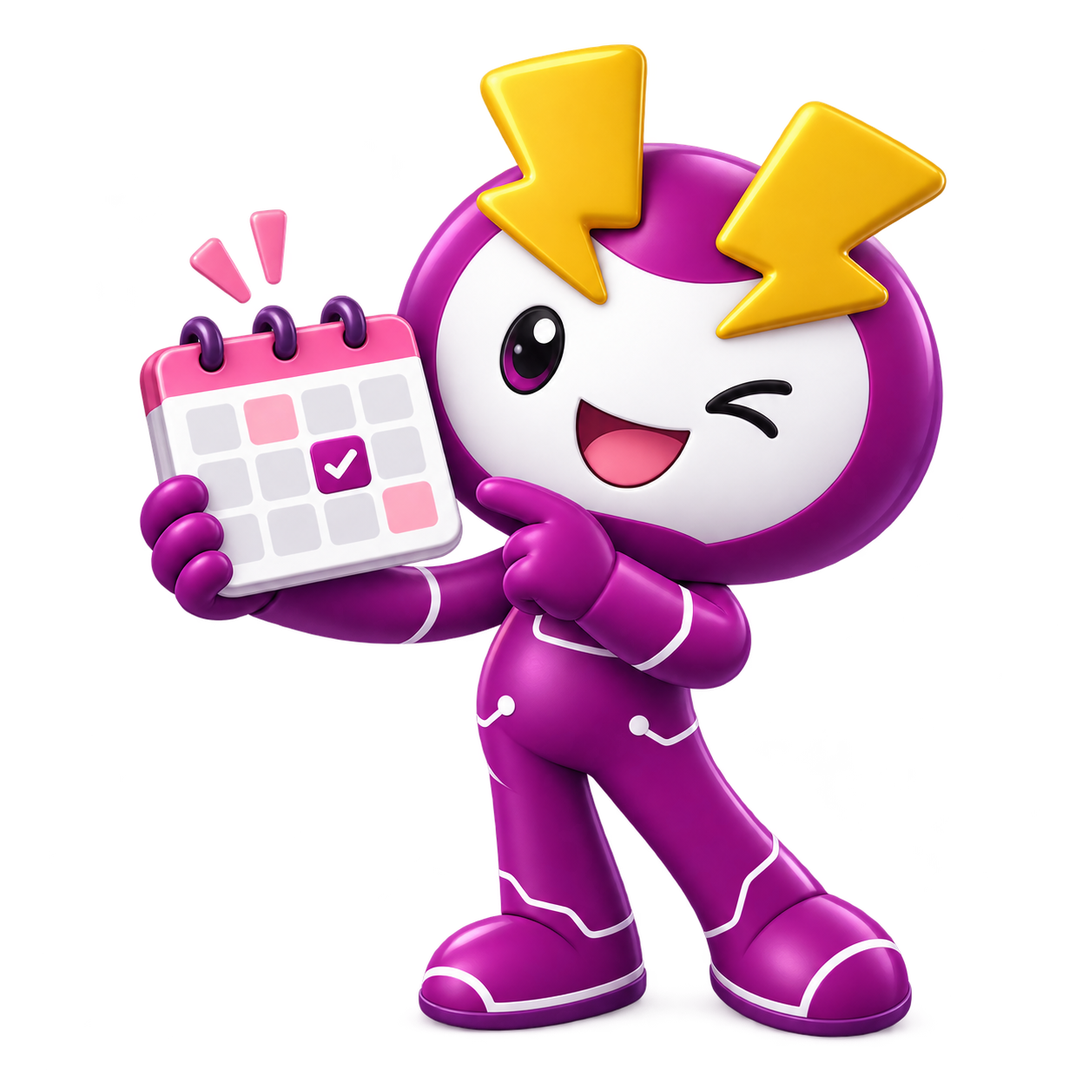
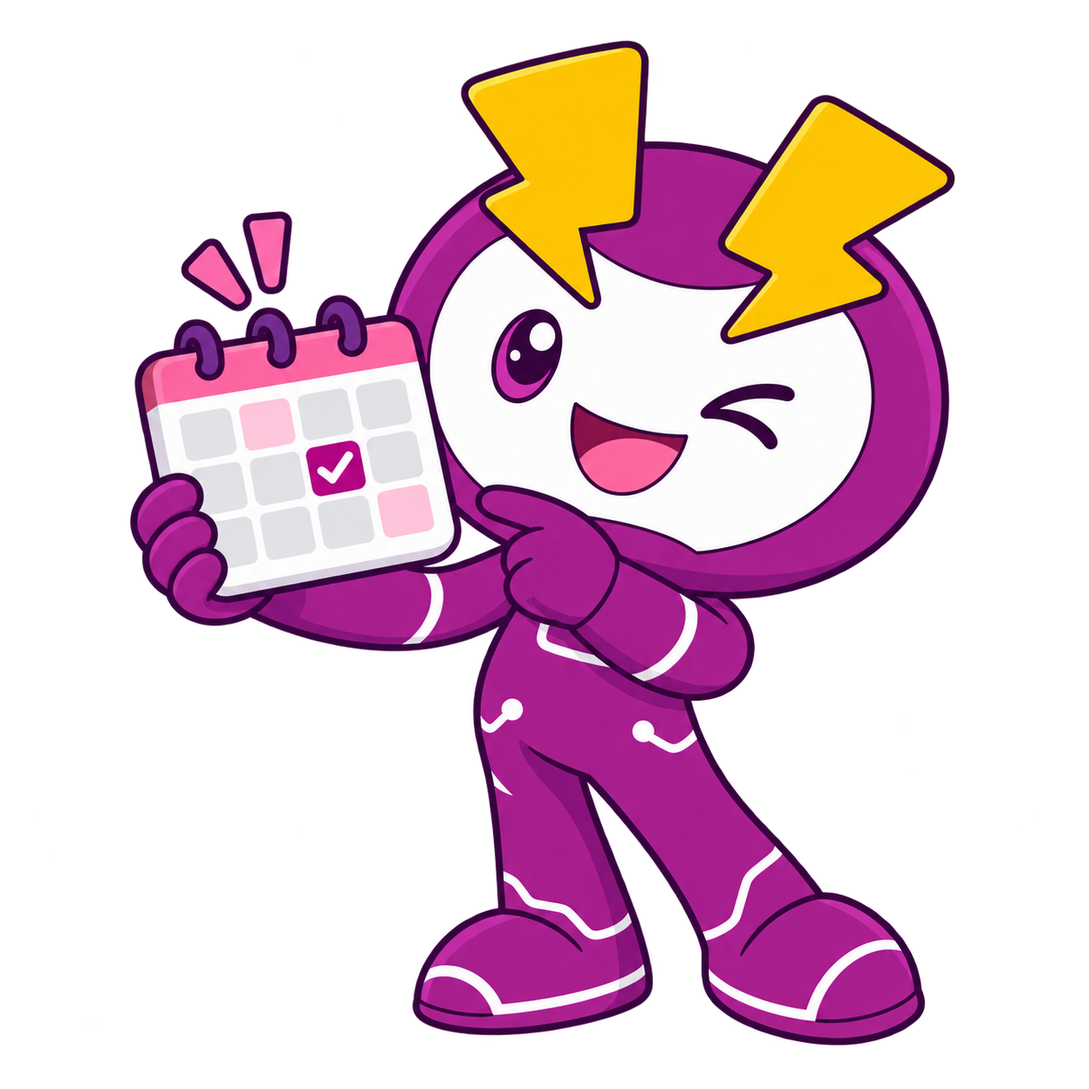
feat: polish PEA calendar UI and acknowledgements

Changed region(s): [[0.0933, 0.0311, 0.9019, 0.9641]]

diff --git a/src/pages/CalendarPage.tsx b/src/pages/CalendarPage.tsx
@@ -6,10 +6,9 @@ import interactionPlugin from '@fullcalendar/interaction'
 import thLocale from '@fullcalendar/core/locales/th'
 import enGbLocale from '@fullcalendar/core/locales/en-gb'
 import { useMutation, useQuery, useQueryClient } from '@tanstack/react-query'
-import { CalendarDays, CalendarPlus, CheckCircle2, Clock3, FileText, Link2, ListTodo, Search, Sparkles } from 'lucide-react'
+import { CalendarCheck2, CalendarDays, CalendarPlus, CheckCircle2, Clock3, FileText, Link2, ListTodo, Search, Sparkles, Zap } from 'lucide-react'
 import Swal from 'sweetalert2'
-import calendarMascot from '../../ภาพประกอบUI/Calendar Mascot 3D.png'
-import peaOfficeTeam from '../../ภาพประกอบUI/PEA Office Team 3D v2.png'
+import bannerHero from '../../ภาพประกอบUI/PEA Calendar Banner 2D.png'
 import { useAuth } from '../auth/AuthProvider'
 import { useConfirm } from '../components/ConfirmDialogProvider'
 import { EventDialog, type EventDetails, type EventDraft } from '../components/EventDialog'
@@ -59,6 +58,7 @@ function calendarDateLabel(date: Date, language: 'th' | 'en') {
 
 async function confirmDeletion(title: string, text: string, confirmButtonText: string) {
   const result = await Swal.fire({
+    customClass: { popup: 'pea-swal-danger' },
     icon: 'error',
     title,
     text,
@@ -530,24 +530,35 @@ export function CalendarPage() {
 
   return (
     <main className="mx-auto max-w-[1600px] p-4 sm:p-6 xl:flex xl:h-[calc(100vh-4rem)] xl:flex-col xl:overflow-hidden xl:p-3">
-      <section className="relative mb-6 min-h-48 overflow-hidden rounded-[28px] border border-purple-100 bg-gradient-to-r from-[#f1ddf8] via-[#faebf6] to-[#eee5ff] px-6 py-7 sm:min-h-56 sm:px-8 xl:mb-3 xl:h-36 xl:min-h-0 xl:shrink-0 xl:overflow-visible xl:py-4" aria-label="ยินดีต้อนรับ">
+      <section className="relative mb-6 min-h-64 overflow-hidden rounded-[28px] border border-purple-100 bg-gradient-to-r from-[#f0dcff] via-[#fff0f7] to-[#eee6ff] px-6 py-7 shadow-sm sm:min-h-72 sm:px-8 xl:mb-2 xl:h-40 xl:min-h-0 xl:shrink-0 xl:px-8 xl:py-3" aria-label="ยินดีต้อนรับ">
         <div className="pointer-events-none absolute inset-0 overflow-hidden rounded-[28px]" aria-hidden="true">
-          <span className="absolute -bottom-20 right-4 h-52 w-52 rounded-full bg-white/35" />
-          <span className="absolute -bottom-8 right-[17%] h-28 w-40 rotate-6 rounded-[32px] border border-white/40 bg-purple-200/25" />
-          <Sparkles className="absolute right-[30%] top-5 hidden text-amber-400 drop-shadow-sm sm:block xl:right-[36%] xl:top-3" size={24} />
-          <span className="absolute right-[39%] top-6 hidden h-2.5 w-2.5 rounded-full bg-pink-300/80 xl:right-[42%] xl:block" />
+          <span className="absolute -left-16 -top-24 h-64 w-64 rounded-full bg-white/35 blur-2xl" />
+          <span className="absolute -bottom-24 right-8 h-64 w-64 rounded-full bg-purple-300/25 blur-2xl" />
+          <div className="absolute bottom-[-3rem] left-[43%] hidden h-40 w-32 rotate-[-5deg] rounded-[22px] border-4 border-white/25 bg-white/10 p-3 sm:block xl:h-28 xl:w-24 xl:p-2">
+            <span className="absolute -top-3 left-5 h-6 w-2 rounded-full bg-purple-300/30" />
+            <span className="absolute -top-3 right-5 h-6 w-2 rounded-full bg-purple-300/30" />
+            <span className="mt-3 grid grid-cols-3 gap-2 opacity-35 xl:gap-1.5">{Array.from({ length: 6 }, (_, index) => <span key={index} className={`aspect-square rounded-md ${index === 4 ? 'bg-purple-400/45' : 'bg-white/60'}`} />)}</span>
+          </div>
+          <Sparkles className="absolute left-[46%] top-8 hidden text-amber-400/80 drop-shadow-sm lg:block xl:top-3" size={24} />
+          <span className="absolute left-[51%] top-14 hidden h-2.5 w-2.5 rounded-full bg-pink-300/80 lg:block xl:top-8" />
+          <Clock3 className="absolute bottom-5 left-[57%] hidden text-brand-500/25 xl:block" size={34} strokeWidth={1.8} />
+          <CheckCircle2 className="absolute left-[62%] top-4 hidden text-amber-500/30 xl:block" size={30} strokeWidth={2} />
+          <span className="absolute left-[54%] top-3 hidden h-1.5 w-1.5 rounded-full bg-brand-400/30 xl:block" />
+          <span className="absolute bottom-3 left-[65%] hidden h-12 w-24 rounded-[50%] border-t-2 border-purple-400/20 xl:block" />
         </div>
-        <div className="relative z-10 max-w-[65%] sm:max-w-[62%] xl:max-w-[40%]"><p className="mb-2 flex items-center gap-2 text-sm font-semibold text-brand-700"><Sparkles size={16} />จัดการนัดหมาย ประชุม และงานสำคัญ</p><h1 className="text-2xl font-extrabold leading-tight text-brand-900 sm:text-4xl xl:text-3xl">ให้ทุกวันเป็นวันของความสำเร็จ</h1><p className="mt-3 hidden max-w-lg text-sm text-slate-600 sm:block xl:text-xs">ปฏิทินเดียวสำหรับวางแผน ติดตามงาน และทำงานร่วมกันอย่างราบรื่น</p></div>
-        <img
-          src={peaOfficeTeam}
-          alt="สำนักงาน PEA พร้อมรถกระเช้าและพนักงานกำลังตรวจงานแบบสามมิติ"
-          className="pointer-events-none absolute bottom-0 right-40 z-10 hidden h-[8.25rem] w-auto max-w-none object-contain drop-shadow-[0_14px_12px_rgba(76,15,93,0.28)] xl:block"
-        />
-        <img
-          src={calendarMascot}
-          alt="มาสคอต PEA ถือปฏิทินและชี้วันที่ทำเครื่องหมาย"
-          className="pointer-events-none absolute right-0 top-3 z-20 w-32 max-w-none -rotate-2 object-contain drop-shadow-[0_18px_14px_rgba(76,15,93,0.28)] sm:right-1 sm:top-2 sm:w-36 xl:right-3 xl:top-0 xl:w-40"
-        />
+        <div className="relative z-20 max-w-full sm:max-w-[54%] xl:max-w-[56%]">
+          <p className="mb-2 flex items-center gap-2 text-sm font-bold text-brand-800 xl:mb-0.5 xl:text-[11px]"><Sparkles size={16} />จัดการนัดหมาย ประชุม งานสำคัญ <CalendarCheck2 className="text-violet-500" size={18} /></p>
+          <h1 className="text-3xl font-extrabold leading-tight text-brand-900 sm:text-4xl xl:text-[1.65rem]">ให้ทุกวันเป็นวันของความสำเร็จ</h1>
+          <p className="mt-3 max-w-2xl text-sm leading-6 text-slate-600 xl:mt-1 xl:text-xs xl:leading-5">ปฏิทินอัจฉริยะสำหรับชาว กฟภ. ช่วยให้การทำงานเป็นระบบมากขึ้น<br className="hidden xl:block" /> นัดหมายง่าย ไม่พลาดทุกภารกิจ สู่อนาคตพลังงานที่ยั่งยืน</p>
+          <p className="mt-4 inline-flex rounded-full bg-white/55 px-5 py-2 text-sm font-bold text-brand-700 shadow-sm backdrop-blur-sm xl:mt-2 xl:px-4 xl:py-1 xl:text-xs">“ ร่วมขับเคลื่อนพลังงาน เพื่อชีวิตที่ดีกว่าของทุกคน ”</p>
+        </div>
+        <div className="absolute right-[25.5rem] top-2 z-30 hidden -rotate-2 rounded-[22px] border border-purple-200/70 bg-white/80 px-4 py-2 pr-8 text-center text-xs font-bold leading-4 text-brand-800 shadow-sm backdrop-blur-sm xl:block">
+          <span className="absolute -right-2 top-1/2 h-4 w-4 -translate-y-1/2 rotate-45 border-r border-t border-purple-200/70 bg-white/80" />
+          <span className="relative z-10">นัดง่าย<br />งานราบรื่น<br />ไปด้วยกัน</span>
+          <Zap className="absolute right-2 top-1/2 -translate-y-1/2 text-amber-500" size={18} />
+        </div>
+        <div className="absolute right-4 top-3 z-30 hidden rounded-[20px] bg-white/65 px-4 py-2 text-center text-[10px] font-bold leading-4 text-brand-800 shadow-sm backdrop-blur-sm xl:block">พลังงาน<br />เชื่อมโยงอนาคต <span className="text-pink-500">♥</span></div>
+        <img src={bannerHero} alt="มาสคอต PEA โบกมือข้างปฏิทินและต้นไม้" className="pointer-events-none absolute bottom-0 right-2 z-10 hidden w-[46%] max-w-[40rem] object-contain drop-shadow-[0_12px_8px_rgba(76,15,93,0.28)] sm:block xl:right-8 xl:h-[9.75rem] xl:w-auto xl:max-w-none" />
       </section>
       <div className="grid gap-5 xl:min-h-0 xl:flex-1 xl:grid-cols-[minmax(0,1fr)_260px] xl:gap-3">
       <div className="min-w-0 xl:flex xl:min-h-0 xl:flex-col">

diff --git a/supabase/functions/email-acknowledgement/index.ts b/supabase/functions/email-acknowledgement/index.ts
@@ -8,50 +8,32 @@ async function hashToken(token: string) {
   return Array.from(bytes, (value) => value.toString(16).padStart(2, '0')).join('')
 }
 
-function result(message: string, status: number) {
-  return new Response(message, { status, headers: { 'content-type': 'text/plain; charset=utf-8', 'cache-control': 'no-store' } })
+function result(title: string, message: string, status: number, success = false) {
+  const accent = success ? '#15803d' : '#b91c1c'
+  const icon = success ? '✓' : '!'
+  const body = `<!doctype html><html lang="th"><head><meta charset="utf-8"><meta name="viewport" content="width=device-width,initial-scale=1"><title>${title}</title></head><body style="margin:0;background:#f6f0f8;font-family:Arial,'Noto Sans Thai',sans-serif;color:#34253d"><main style="min-height:100vh;display:flex;align-items:center;justify-content:center;padding:24px;box-sizing:border-box"><section style="width:100%;max-width:480px;padding:32px;box-sizing:border-box;text-align:center;background:#fff;border:1px solid #ead9ef;border-top:6px solid ${accent};border-radius:24px;box-shadow:0 18px 50px rgba(76,15,93,.16)"><div style="width:64px;height:64px;margin:0 auto 18px;display:flex;align-items:center;justify-content:center;border-radius:50%;background:${accent};color:#fff;font-size:36px;font-weight:700">${icon}</div><h1 style="margin:0;color:#4e0d53;font-size:26px">${title}</h1><p style="margin:14px 0 0;color:#625469;font-size:16px;line-height:1.7">${message}</p></section></main></body></html>`
+  return new Response(body, { status, headers: { 'content-type': 'text/html; charset=utf-8', 'cache-control': 'no-store' } })
 }
 
-function acknowledgementSuccessRedirect() {
-  if (!publicAppUrl) return null
+function acknowledgementSuccess() {
+  if (!publicAppUrl) return result('รับทราบเรียบร้อยแล้ว', 'ระบบบันทึกการรับทราบของคุณแล้ว สามารถปิดหน้านี้ได้', 200, true)
   const url = new URL(publicAppUrl)
   url.hash = '/acknowledged'
-  return url.toString()
+  return Response.redirect(url, 303)
 }
 
 Deno.serve(async (request) => {
-  if (request.method !== 'GET') return result('ไม่รองรับคำขอนี้', 405)
+  if (request.method !== 'GET') return result('ไม่รองรับคำขอนี้', 'กรุณาเปิดลิงก์รับทราบจากอีเมลอีกครั้ง', 405)
   try {
     const token = new URL(request.url).searchParams.get('token')?.trim()
-    if (!token) return result('ลิงก์รับทราบไม่ถูกต้อง', 400)
-    const { data: action, error: actionError } = await admin.from('email_acknowledgement_tokens').select('*')
-      .eq('token_hash', await hashToken(token)).gt('expires_at', new Date().toISOString()).maybeSingle()
-    if (actionError) throw actionError
-    if (!action) return result('ลิงก์รับทราบหมดอายุแล้ว', 404)
-
-    if (action.recipient_type === 'guest') {
-      const { error } = await admin.from('event_guests').update({ acknowledged_at: new Date().toISOString() })
-        .eq('event_id', action.event_id!).eq('email', action.recipient_reference).is('revoked_at', null).is('acknowledged_at', null)
-      if (error) throw error
-    } else if (action.recipient_type === 'external_assignee') {
-      const { error } = await admin.from('task_external_recipients').update({ acknowledged_at: new Date().toISOString() })
-        .eq('task_id', action.task_id!).eq('email', action.recipient_reference).is('acknowledged_at', null)
-      if (error) throw error
-    } else {
-      const { data: profile, error: profileError } = await admin.from('profiles').select('id').eq('email', action.recipient_reference).maybeSingle()
-      if (profileError) throw profileError
-      if (!profile) return result('ไม่พบผู้รับมอบหมาย', 404)
-      const { error } = await admin.from('task_internal_recipients').update({ acknowledged_at: new Date().toISOString() })
-        .eq('task_id', action.task_id!).eq('user_id', profile.id).is('acknowledged_at', null)
-      if (error) throw error
-    }
-    await admin.from('email_acknowledgement_tokens').update({ consumed_at: new Date().toISOString() }).eq('id', action.id)
-    const redirect = acknowledgementSuccessRedirect()
-    return redirect
-      ? Response.redirect(redirect, 302)
-      : new Response(null, { status: 204, headers: { 'cache-control': 'no-store' } })
+    if (!token) return result('ลิงก์รับทราบไม่ถูกต้อง', 'ไม่พบ token สำหรับยืนยันการรับทราบ', 400)
+    const { data: outcome, error } = await admin.rpc('consume_email_acknowledgement', { target_token_hash: await hashToken(token) })
+    if (error) throw error
+    if (outcome === 'invalid') return result('ลิงก์รับทราบหมดอายุ', 'กรุณาติดต่อผู้ส่งเพื่อขออีเมลแจ้งเตือนฉบับใหม่', 404)
+    if (outcome === 'recipient_not_found') return result('ไม่พบผู้รับรายการนี้', 'รายการอาจถูกแก้ไขหรือยกเลิกไปแล้ว', 404)
+    return acknowledgementSuccess()
   } catch (error) {
     console.error(error)
-    return result('ไม่สามารถบันทึกการรับทราบได้ในขณะนี้', 500)
+    return result('บันทึกการรับทราบไม่สำเร็จ', 'ระบบขัดข้องชั่วคราว กรุณาลองเปิดลิงก์จากอีเมลอีกครั้ง', 500)
   }
 })

diff --git a/src/components/ConfirmDialogProvider.tsx b/src/components/ConfirmDialogProvider.tsx
@@ -1,5 +1,6 @@
 import { createContext, useCallback, useContext, useEffect, useRef, useState, type ReactNode } from 'react'
-import { AlertTriangle, CircleHelp, X } from 'lucide-react'
+import { AlertTriangle, CircleHelp, Sparkles, X } from 'lucide-react'
+import mascot from '../../ภาพประกอบUI/Thumb Up Mascot 3D.png'
 
 type ConfirmOptions = {
   title: string
@@ -37,17 +38,29 @@ export function ConfirmDialogProvider({ children }: { children: ReactNode }) {
 
   return <ConfirmContext.Provider value={confirm}>
     {children}
-    {options && <div className="fixed inset-0 z-[100] flex items-center justify-center bg-slate-950/40 p-4" role="dialog" aria-modal="true" aria-labelledby="confirm-dialog-title">
-      <div className="relative w-full max-w-md rounded-2xl bg-white p-6 text-center shadow-2xl">
-        <button type="button" className="absolute right-4 top-4 rounded-lg p-1.5 text-slate-400 hover:bg-slate-100 hover:text-slate-700" onClick={() => close(false)} aria-label="ปิด"><X size={20} /></button>
-        <div className={`mx-auto mb-4 flex h-14 w-14 items-center justify-center rounded-full ${options.tone === 'danger' ? 'bg-red-50 text-red-600' : 'bg-brand-50 text-brand-600'}`}>
-          {options.tone === 'danger' ? <AlertTriangle size={30} /> : <CircleHelp size={30} />}
-        </div>
-        <h2 id="confirm-dialog-title" className="text-xl font-bold text-slate-900">{options.title}</h2>
-        <p className="mt-2 text-sm leading-6 text-slate-600">{options.message}</p>
-        <div className="mt-6 grid gap-3 sm:grid-cols-2">
-          <button type="button" className="btn-secondary justify-center" onClick={() => close(false)} autoFocus>ยกเลิก</button>
-          <button type="button" className={`justify-center ${options.tone === 'danger' ? 'btn-secondary border-red-200 bg-red-600 text-white hover:bg-red-700' : 'btn-primary'}`} onClick={() => close(true)}>{options.confirmLabel ?? 'ยืนยัน'}</button>
+    {options && <div className="fixed inset-0 z-[100] flex items-center justify-center bg-[#291333]/60 p-4 backdrop-blur-md" role="dialog" aria-modal="true" aria-labelledby="confirm-dialog-title">
+      <div className="relative w-full max-w-md overflow-hidden rounded-[28px] border-2 border-purple-200/80 bg-gradient-to-br from-white via-purple-50/90 to-amber-50/80 text-center shadow-[0_28px_80px_rgba(76,15,93,0.38)]">
+        <div className={`h-2.5 w-full ${options.tone === 'danger' ? 'bg-gradient-to-r from-red-500 via-rose-500 to-amber-400' : 'bg-gradient-to-r from-brand-700 via-fuchsia-500 to-amber-400'}`} />
+        <div className="pointer-events-none absolute -right-10 -top-10 h-36 w-36 rounded-full bg-fuchsia-300/35 blur-2xl" aria-hidden="true" />
+        <div className="pointer-events-none absolute -bottom-16 -left-12 h-40 w-40 rounded-full bg-amber-200/35 blur-2xl" aria-hidden="true" />
+        <div className="relative px-6 pb-6 pt-7 sm:px-7">
+          <button type="button" className="absolute right-4 top-4 rounded-xl bg-white/70 p-2 text-slate-400 shadow-sm transition hover:bg-white hover:text-brand-700" onClick={() => close(false)} aria-label="ปิด"><X size={20} /></button>
+          <div className={`mx-auto mb-5 flex h-20 w-20 items-center justify-center rounded-[24px] border-2 text-white ring-8 ring-white/70 ${options.tone === 'danger' ? 'border-red-300 bg-gradient-to-br from-red-500 to-orange-400 shadow-lg shadow-red-200/70' : 'border-purple-300 bg-gradient-to-br from-brand-700 via-fuchsia-500 to-amber-400 shadow-lg shadow-purple-300/60'}`}>
+            {options.tone === 'danger' ? <AlertTriangle size={31} /> : <CircleHelp size={31} />}
+          </div>
+          <Sparkles className="absolute left-[calc(50%+2.8rem)] top-7 text-amber-500 drop-shadow-sm" size={21} aria-hidden="true" />
+          <h2 id="confirm-dialog-title" className="text-2xl font-extrabold text-brand-900">{options.title}</h2>
+          <div className="mt-4 grid grid-cols-[5.5rem_minmax(0,1fr)] items-end gap-2 text-left">
+            <img src={mascot} alt="มาสคอต PEA" className="h-24 w-24 max-w-none object-contain drop-shadow-[0_10px_8px_rgba(76,15,93,0.28)]" />
+            <div className={`relative mb-2 rounded-[20px] border-2 px-4 py-3 shadow-sm ${options.tone === 'danger' ? 'border-red-200 bg-red-50/90' : 'border-purple-200 bg-white/90'}`}>
+              <span className={`absolute -left-3 bottom-5 h-6 w-6 rotate-45 border-b-[3px] border-l-[3px] drop-shadow-[-2px_2px_2px_rgba(76,15,93,0.08)] ${options.tone === 'danger' ? 'border-red-200 bg-red-50' : 'border-purple-200 bg-white'}`} />
+              <p className="relative z-10 text-sm font-semibold leading-6 text-slate-700">{options.message}</p>
+            </div>
+          </div>
+          <div className="mt-4 grid gap-3 sm:grid-cols-2">
+            <button type="button" className="inline-flex min-h-11 items-center justify-center rounded-xl border-2 border-purple-200 bg-purple-50/80 px-4 py-2.5 font-semibold text-brand-800 shadow-sm transition hover:bg-purple-100" onClick={() => close(false)} autoFocus>ยกเลิก</button>
+            <button type="button" className={`inline-flex min-h-11 items-center justify-center rounded-xl px-4 py-2.5 font-semibold text-white shadow-lg transition ${options.tone === 'danger' ? 'bg-gradient-to-r from-red-600 to-orange-500 shadow-red-200 hover:from-red-700 hover:to-orange-600' : 'bg-gradient-to-r from-brand-700 via-fuchsia-500 to-amber-500 shadow-purple-300/50 hover:from-brand-800 hover:via-fuchsia-600 hover:to-amber-600'}`} onClick={() => close(true)}>{options.confirmLabel ?? 'ยืนยัน'}</button>
+          </div>
         </div>
       </div>
     </div>}

diff --git a/src/index.css b/src/index.css
@@ -20,6 +20,46 @@ button:focus-visible, a:focus-visible, input:focus-visible, textarea:focus-visib
   outline-offset: 2px;
 }
 
+.swal2-container { padding: 1rem !important; background: rgba(41, 19, 51, .6) !important; backdrop-filter: blur(7px); }
+.swal2-popup {
+  position: relative !important;
+  overflow: hidden !important;
+  width: min(28rem, calc(100vw - 2rem)) !important;
+  padding: 1.75rem !important;
+  border: 2px solid #e7cbed !important;
+  border-top: 9px solid #851484 !important;
+  border-radius: 28px !important;
+  background: radial-gradient(circle at 100% 0, rgba(232, 176, 240, .58), transparent 36%), radial-gradient(circle at 0 100%, rgba(255, 216, 126, .38), transparent 34%), linear-gradient(145deg, #fff 20%, #fbf1ff 66%, #fff8e8) !important;
+  box-shadow: 0 28px 80px rgba(76, 15, 93, .38) !important;
+  font-family: inherit !important;
+}
+.swal2-popup::before { content: ''; position: absolute; right: -3rem; top: -3rem; width: 9rem; height: 9rem; border-radius: 9999px; background: rgba(217, 70, 239, .18); filter: blur(18px); pointer-events: none; }
+.swal2-popup > * { position: relative; z-index: 2; }
+.swal2-title { padding: .25rem 1rem 0 !important; color: #4e0d53 !important; font-size: 1.5rem !important; font-weight: 800 !important; }
+.swal2-html-container { min-height: 6.5rem; margin: .9rem 0 0 6.5rem !important; padding: .9rem 1rem !important; overflow: visible !important; border: 2px solid #dfbee8; border-radius: 20px; background: rgba(255, 255, 255, .9); color: #51445a !important; font-size: .9rem !important; font-weight: 600 !important; line-height: 1.65 !important; text-align: left !important; box-shadow: 0 5px 16px rgba(76, 15, 93, .1); }
+.swal2-html-container::before { content: ''; position: absolute; left: -.82rem; bottom: 1.45rem; z-index: 1; width: 1.5rem; height: 1.5rem; transform: rotate(45deg); border-bottom: 3px solid #dfbee8; border-left: 3px solid #dfbee8; background: #fff; filter: drop-shadow(-2px 2px 2px rgba(76, 15, 93, .08)); }
+.swal2-html-container::after { content: ''; position: absolute; left: -6.65rem; bottom: -.35rem; z-index: 2; width: 6.1rem; height: 7.3rem; background: url('../ภาพประกอบUI/Thumb Up Mascot 3D.png') center bottom / contain no-repeat; filter: drop-shadow(0 10px 8px rgba(76, 15, 93, .28)); pointer-events: none; }
+.swal2-icon { margin: .25rem auto 1rem !important; transform: scale(.9); filter: drop-shadow(0 8px 10px rgba(76, 15, 93, .18)); }
+.swal2-icon.swal2-question { border-color: transparent !important; background: linear-gradient(145deg, #851484, #c026d3 62%, #e8a414) !important; color: #fff !important; box-shadow: 0 0 0 8px rgba(255, 255, 255, .72), 0 12px 26px rgba(133, 20, 132, .3); }
+.swal2-actions { gap: .75rem; margin: 1.5rem 0 0 !important; }
+.swal2-styled { min-height: 44px; margin: 0 !important; border-radius: 12px !important; padding: .65rem 1.1rem !important; font-family: inherit !important; font-weight: 700 !important; }
+.swal2-confirm { background: linear-gradient(90deg, #751174, #b52cb9 60%, #d9910b) !important; color: #fff !important; box-shadow: 0 10px 22px rgba(133, 20, 132, .28) !important; }
+.swal2-confirm:hover { background: linear-gradient(90deg, #620d61, #98219c 60%, #bd7800) !important; }
+.swal2-cancel { border: 2px solid #dfbee8 !important; background: #f9edfc !important; color: #651064 !important; box-shadow: 0 4px 12px rgba(133, 20, 132, .1) !important; }
+.swal2-cancel:hover { background: #efd9f5 !important; color: #4e0d53 !important; }
+.swal2-deny { background: linear-gradient(90deg, #c77900, #f2b52f) !important; color: #fff !important; box-shadow: 0 10px 22px rgba(213, 138, 0, .25) !important; }
+.swal2-popup.pea-swal-danger { border-top-color: #dc2626 !important; }
+.swal2-popup.pea-swal-danger .swal2-html-container { border-color: #fecaca; background: rgba(255, 247, 247, .94); }
+.swal2-popup.pea-swal-danger .swal2-html-container::before { border-color: #fecaca; background: #fff7f7; }
+.swal2-popup.pea-swal-danger .swal2-confirm { background: #dc2626 !important; }
+.swal2-popup.pea-swal-danger .swal2-confirm:hover { background: #b91c1c !important; }
+
+@media (max-width: 420px) {
+  .swal2-popup { padding: 1.35rem !important; }
+  .swal2-html-container { min-height: 5.5rem; margin-left: 5rem !important; padding: .7rem .8rem !important; font-size: .82rem !important; }
+  .swal2-html-container::after { left: -5.15rem; bottom: -.2rem; width: 4.7rem; height: 5.8rem; }
+}
+
 @layer components {
   .field-label { @apply mb-1.5 block text-sm font-semibold text-slate-700; }
   .field-input { @apply w-full rounded-xl border border-slate-300 bg-white px-3.5 py-2.5 text-slate-900 shadow-sm transition placeholder:text-slate-400 focus:border-brand-500 focus:ring-2 focus:ring-brand-100; }
@@ -48,6 +88,7 @@ button:focus-visible, a:focus-visible, input:focus-visible, textarea:focus-visib
 @media (min-width: 1280px) {
   .calendar-fill { overflow: hidden; }
   .calendar-fill .fc { height: 100%; }
+  .calendar-fill .fc-scroller { overflow: hidden !important; }
 }
 @media (max-width: 640px) {
   .fc .fc-toolbar { align-items: flex-start; gap: .75rem; }

diff --git a/supabase/functions/process-notification-queue/emailTemplate.ts b/supabase/functions/process-notification-queue/emailTemplate.ts
@@ -102,7 +102,7 @@ export function html(template: string, payload: Record<string, unknown>) {
     ? `<div style="margin-top:18px"><div style="margin-bottom:6px;color:#64748b;font-size:13px;font-weight:700">รายละเอียด / วาระการประชุม</div><div style="padding:14px;background:#f8fafc;border-radius:10px;color:#334155;font-size:14px;line-height:1.7">${escapeHtml(description)}</div></div>`
     : ''
   const acknowledgeAction = acknowledgeUrl
-    ? `<div style="margin-top:20px"><a style="display:inline-block;background:#15803d;color:#ffffff;padding:12px 18px;border-radius:8px;text-decoration:none;font-weight:700" href="${escapeHtml(acknowledgeUrl)}">รับทราบ</a></div>`
+    ? `<div style="margin-top:20px"><a target="_blank" rel="noopener noreferrer" style="display:inline-block;background:#15803d;color:#ffffff;padding:12px 18px;border-radius:8px;text-decoration:none;font-weight:700" href="${escapeHtml(acknowledgeUrl)}">รับทราบ</a><div style="margin-top:10px;color:#64748b;font-size:12px;line-height:1.6">หากปุ่มรับทราบใช้งานไม่ได้ <a target="_blank" rel="noopener noreferrer" href="${escapeHtml(acknowledgeUrl)}" style="color:#0f766e;word-break:break-all">คลิกลิงก์รับทราบสำรอง</a></div></div>`
     : ''
   const documentList = documentItems.length
     ? `<div style="margin-top:20px;padding:16px;background:#f0fdfa;border:1px solid #99f6e4;border-radius:10px"><div style="margin-bottom:10px;color:#115e59;font-size:15px;font-weight:700">เอกสารและลิงก์ Google Drive (${documentItems.length})</div>${documentItems.map((document) => {

diff --git a/src/components/AppShell.tsx b/src/components/AppShell.tsx
@@ -87,7 +87,7 @@ export function AppShell() {
           {profile?.role === 'admin' && <NavLink to="/admin" onClick={() => setMenuOpen(false)} className={navClass}><ShieldCheck size={19} />Admin</NavLink>}
         </nav>
         <div className="relative mx-4 mt-auto mb-4 min-h-36 overflow-visible rounded-2xl bg-gradient-to-br from-purple-50 via-pink-50 to-amber-50 p-3">
-          <img src={mascot} alt="มาสคอต PEA ชูนิ้วโป้ง" className="pointer-events-none absolute -right-10 -top-6 z-20 h-40 w-40 max-w-none -rotate-3 object-contain drop-shadow-[0_14px_12px_rgba(76,15,93,0.30)]" />
+          <img src={mascot} alt="มาสคอต PEA ชูนิ้วโป้ง" className="pointer-events-none absolute -right-10 -top-6 z-20 h-40 w-40 max-w-none -rotate-3 object-contain drop-shadow-[0_12px_9px_rgba(76,15,93,0.38)]" />
           <div className="relative z-10 max-w-[45%] pt-3 text-left">
             <p className="text-sm font-bold leading-5 text-brand-700">พลังงานเพื่อชีวิตที่ดีกว่า</p>
             <p className="mt-1 text-xs text-slate-500">ของทุกคน</p>

diff --git a/src/lib/meetingEmail.test.ts b/src/lib/meetingEmail.test.ts
@@ -40,6 +40,8 @@ test('renders a complete Meeting HTML card with secure document links', () => {
   assert.match(card, /&lt;agenda&gt;\.pdf/)
   assert.match(card, /1\.0 MB/)
   assert.match(card, /href="https:\/\/project\.supabase\.co\/functions\/v1\/email-acknowledgement\?token=scoped"[^>]*>รับทราบ<\/a>/)
+  assert.match(card, /หากปุ่มรับทราบใช้งานไม่ได้/)
+  assert.match(card, /target="_blank"/)
   assert.match(card, /https:\/\/files\.example\.com\/download\/agenda/)
   assert.match(card, /href="https:\/\/drive\.google\.com\/drive\/folders\/example"/)
   assert.doesNotMatch(card, /เปิดรายละเอียด Meeting/)

diff --git a/src/lib/taskEmailLink.test.ts b/src/lib/taskEmailLink.test.ts
@@ -27,5 +27,6 @@ test('Task email opens Drive directly and keeps acknowledgement separate from th
   assert.match(card, /Google Drive: <a href="https:\/\/drive\.google\.com\/drive\/folders\/example"/)
   assert.doesNotMatch(card, /เปิด Task \/ ดาวน์โหลดเอกสาร/)
   assert.match(card, /href="https:\/\/project\.supabase\.co\/functions\/v1\/email-acknowledgement\?token=scoped"[^>]*>รับทราบ<\/a>/)
+  assert.match(card, /หากปุ่มรับทราบใช้งานไม่ได้/)
   assert.doesNotMatch(card, /อัปโหลดเอกสาร/)
 })

diff --git a/IMPLEMENTATION_PLAN.md b/IMPLEMENTATION_PLAN.md
@@ -8,19 +8,28 @@
 
 **Approved:** 19 September 2026  
 
-**สถานะที่บันทึก ณ 27 กันยายน 2026:** การทดสอบด้วยบัญชีผู้รับจริงยังไม่ครบ และยังไม่ได้ยืนยันผลการ deploy frontend/Edge Function รอบล่าสุดบน production; ตรวจสถานะ Git แยกจากสถานะ deploy
+**สถานะที่บันทึก ณ 28 กันยายน 2026:** ปรับหน้า Calendar, banner 2D และ popup ตามธีม PEA แล้ว แก้ระบบรับทราบจากอีเมลและ deploy backend ขึ้น production แล้ว ส่วน frontend ให้ตรวจผล GitHub Pages workflow หลัง push รอบนี้
 
 ## Current Progress
 
 - Foundation, Auth, Meeting/Task calendar, recurrence, reminders, external Task links, guest links, Admin screens, and notification workers are implemented in code.
 - A Supabase production project is linked. On 26 September 2026, the deployed `external-task` function passed a CORS preflight with `x-client-info`; external-assignee notifications in the preceding seven days included 43 provider-accepted deliveries. These checks do not prove that every recipient link opened successfully.
-- On 27 September 2026, migrations `202609260001`, `202609270001`, and `202609270002` were reported as applied to production; `external-task`, `guest-event`, and `process-notification-queue` were reported as deployed. The `/acknowledged` frontend route was committed in `8e1d78c`; its live deployment and the remaining uncommitted UI changes still need separate verification.
+- On 28 September 2026, migration `202609280001_atomic_email_acknowledgement.sql` was applied to production. `email-acknowledgement` and `process-notification-queue` were deployed without JWT verification. A previously failing Gmail acknowledgement link returned `303` to the public `/acknowledged` route after the fix, and both the token and recipient acknowledgement timestamps were verified in production.
 - Task links now use server-side `PUBLIC_APP_URL`; assignees have read-only document access. Creators can delete Task and Meeting attachments, and forms use explicit 24-hour time selection. Task email Drive links open directly.
 - Edit forms offer save silently or save with notification. The migrations defer edit emails until recipients, attachments, and Drive links are saved, add mixed multi-recipient Tasks and per-recipient acknowledgements, and enforce creator-only editing/completion. Live acceptance testing with real recipient accounts remains open.
-- The acknowledgement button in each recipient email uses a dedicated action URL. Opening it performs the acknowledgement after the recipient page loads (and after sign-in for internal users); opening the ordinary detail URL does not change status. Calendar forms refresh recipient badges while open.
+- The acknowledgement button in each recipient email uses a dedicated action URL. The action now runs atomically in PostgreSQL, redirects successful requests to the public `/acknowledged` route, and includes a fallback acknowledgement link in newly generated emails. Opening the ordinary detail URL does not change status. Calendar forms refresh recipient badges while open.
 - The Task recipient form uses compact tabs for self, internal employees, and external Gmail recipients. Switching tabs preserves selections across all three groups; multiple recipients remain supported.
-- Pending the next production deployment, email cards retain only a direct acknowledgement action. The scoped acknowledgement Function records the matching Gmail recipient without opening the Task or Meeting app page. Cards list Google Drive links only when the creator entered them in the form.
+- Email cards contain a direct acknowledgement action plus a fallback link for Gmail/Outlook clients. The scoped acknowledgement Function records only the matching recipient. Cards list Google Drive links only when the creator entered them in the form.
 - Remaining acceptance work is tracked in `OPEN_ISSUES.md`, including production end-to-end verification, external token expiry, shared Task visibility, Meeting Drive links, and notification formats.
+
+## Latest Handoff — 28 September 2026
+
+- Calendar UI: the desktop banner is compact and uses the 2D artwork at `ภาพประกอบUI/PEA Calendar Banner 2D.png`, based on `ภาพประกอบUI/Screenshot 2026-09-28 173307.png`. The mascot speech bubble reads “นัดง่าย / งานราบรื่น / ไปด้วยกัน”. The full month calendar is visible without its own scrollbar; the right summary cards may scroll.
+- Popup UI: global SweetAlert dialogs and the custom confirmation dialog use the PEA purple/amber theme, mascot artwork, visible shadows, and a larger speech-bubble tail. Delete confirmations use the danger variant. Overflow rules prevent the mascot and speech tail from being clipped or hidden behind actions.
+- Email acknowledgement: the previous direct multi-step Data API update produced `500 EDGE_FUNCTION_ERROR` for a real guest token. Migration `202609280001_atomic_email_acknowledgement.sql` moves token validation, recipient acknowledgement, and token consumption into one security-definer transaction. The Edge Function now redirects success to `https://pkyhahaha-art.github.io/meeting-task-calendar#/acknowledged`.
+- Production status: the migration and both affected Edge Functions are already deployed. The supplied failing token was retested successfully and is now consumed/acknowledged. Future notification emails include a new-tab action and a fallback link.
+- Verification completed locally: 32 tests pass; TypeScript typecheck, ESLint, production build, and `git diff --check` pass. Vite still reports the existing advisory that the main JavaScript chunk exceeds 500 kB.
+- Next session: verify the GitHub Actions Pages deployment for this commit, then perform visual acceptance in Gmail and on desktop/mobile. Continue the broader real-recipient acceptance items in `OPEN_ISSUES.md`.
 
 ---
 
